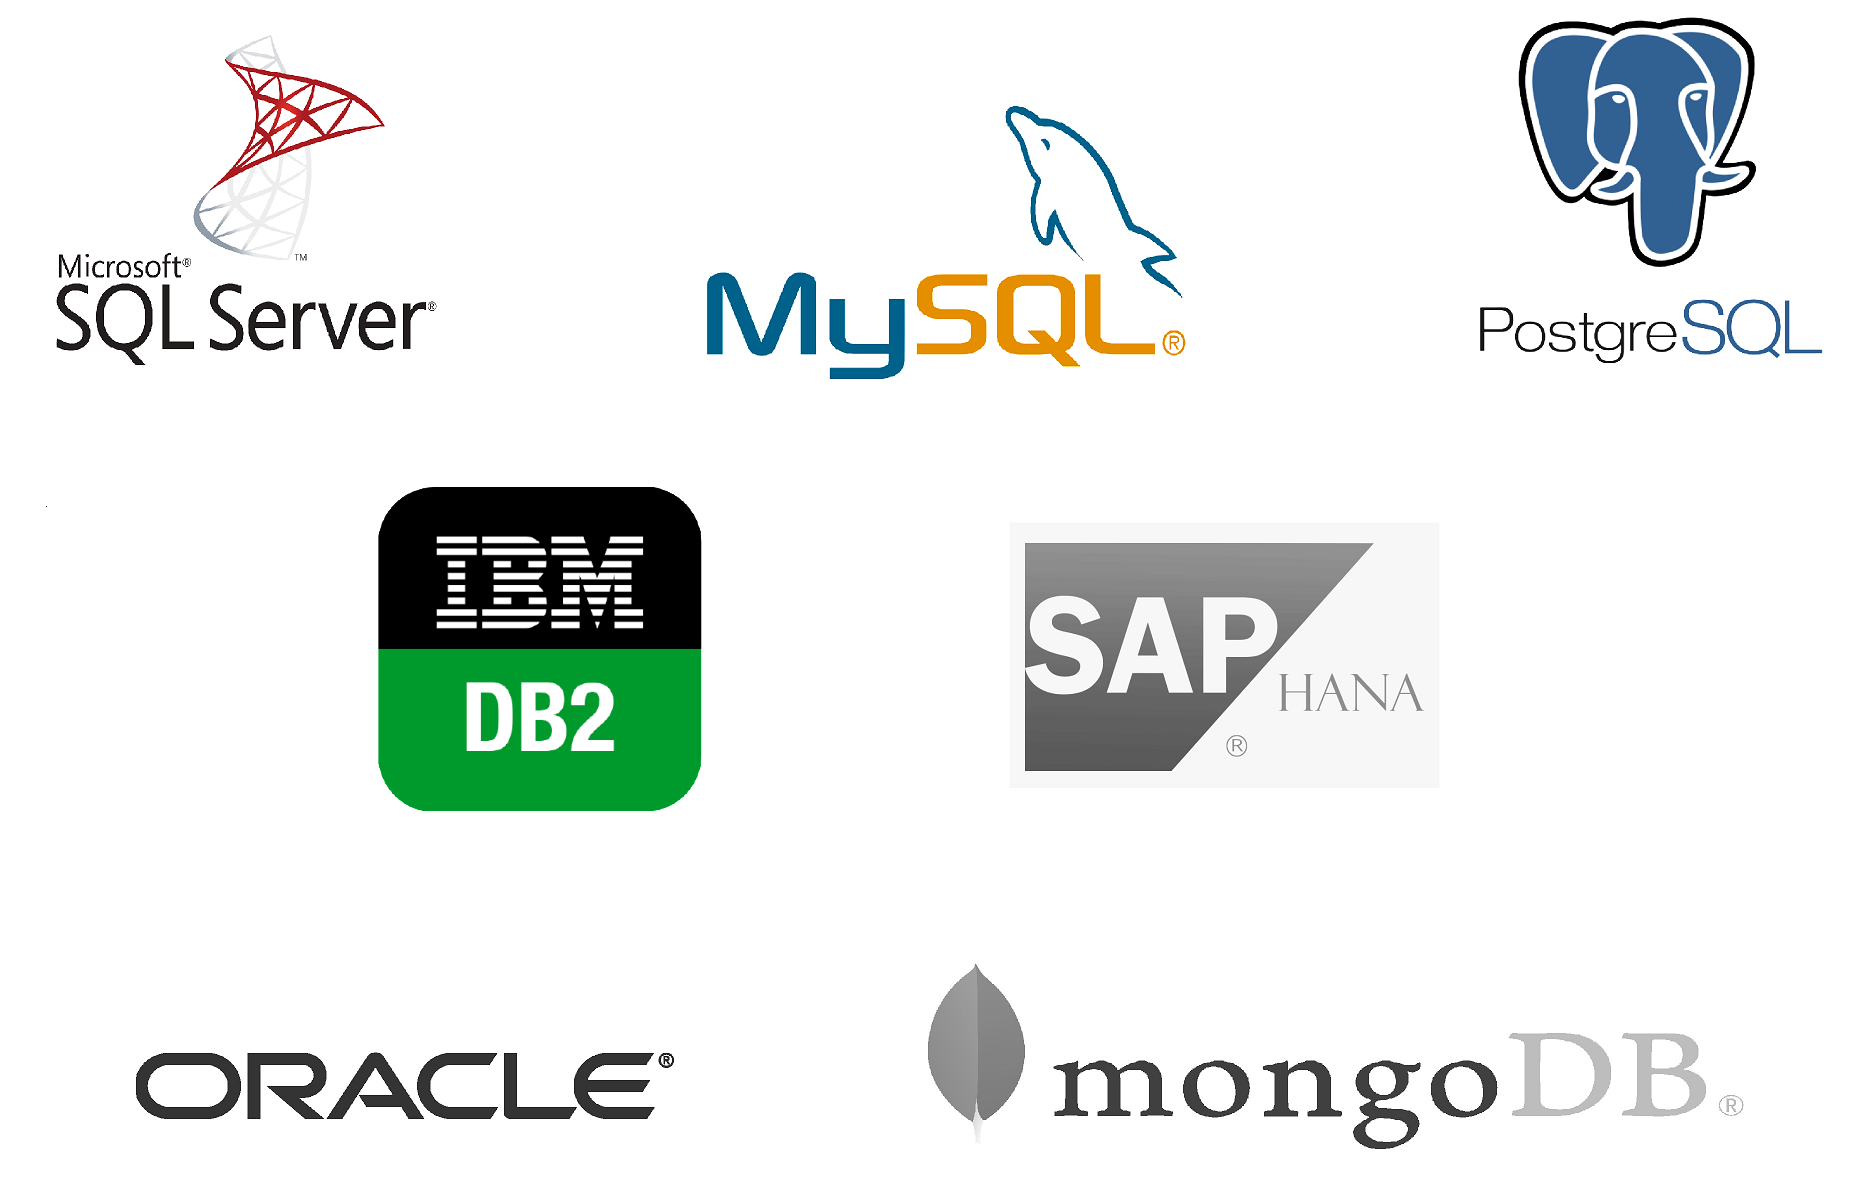
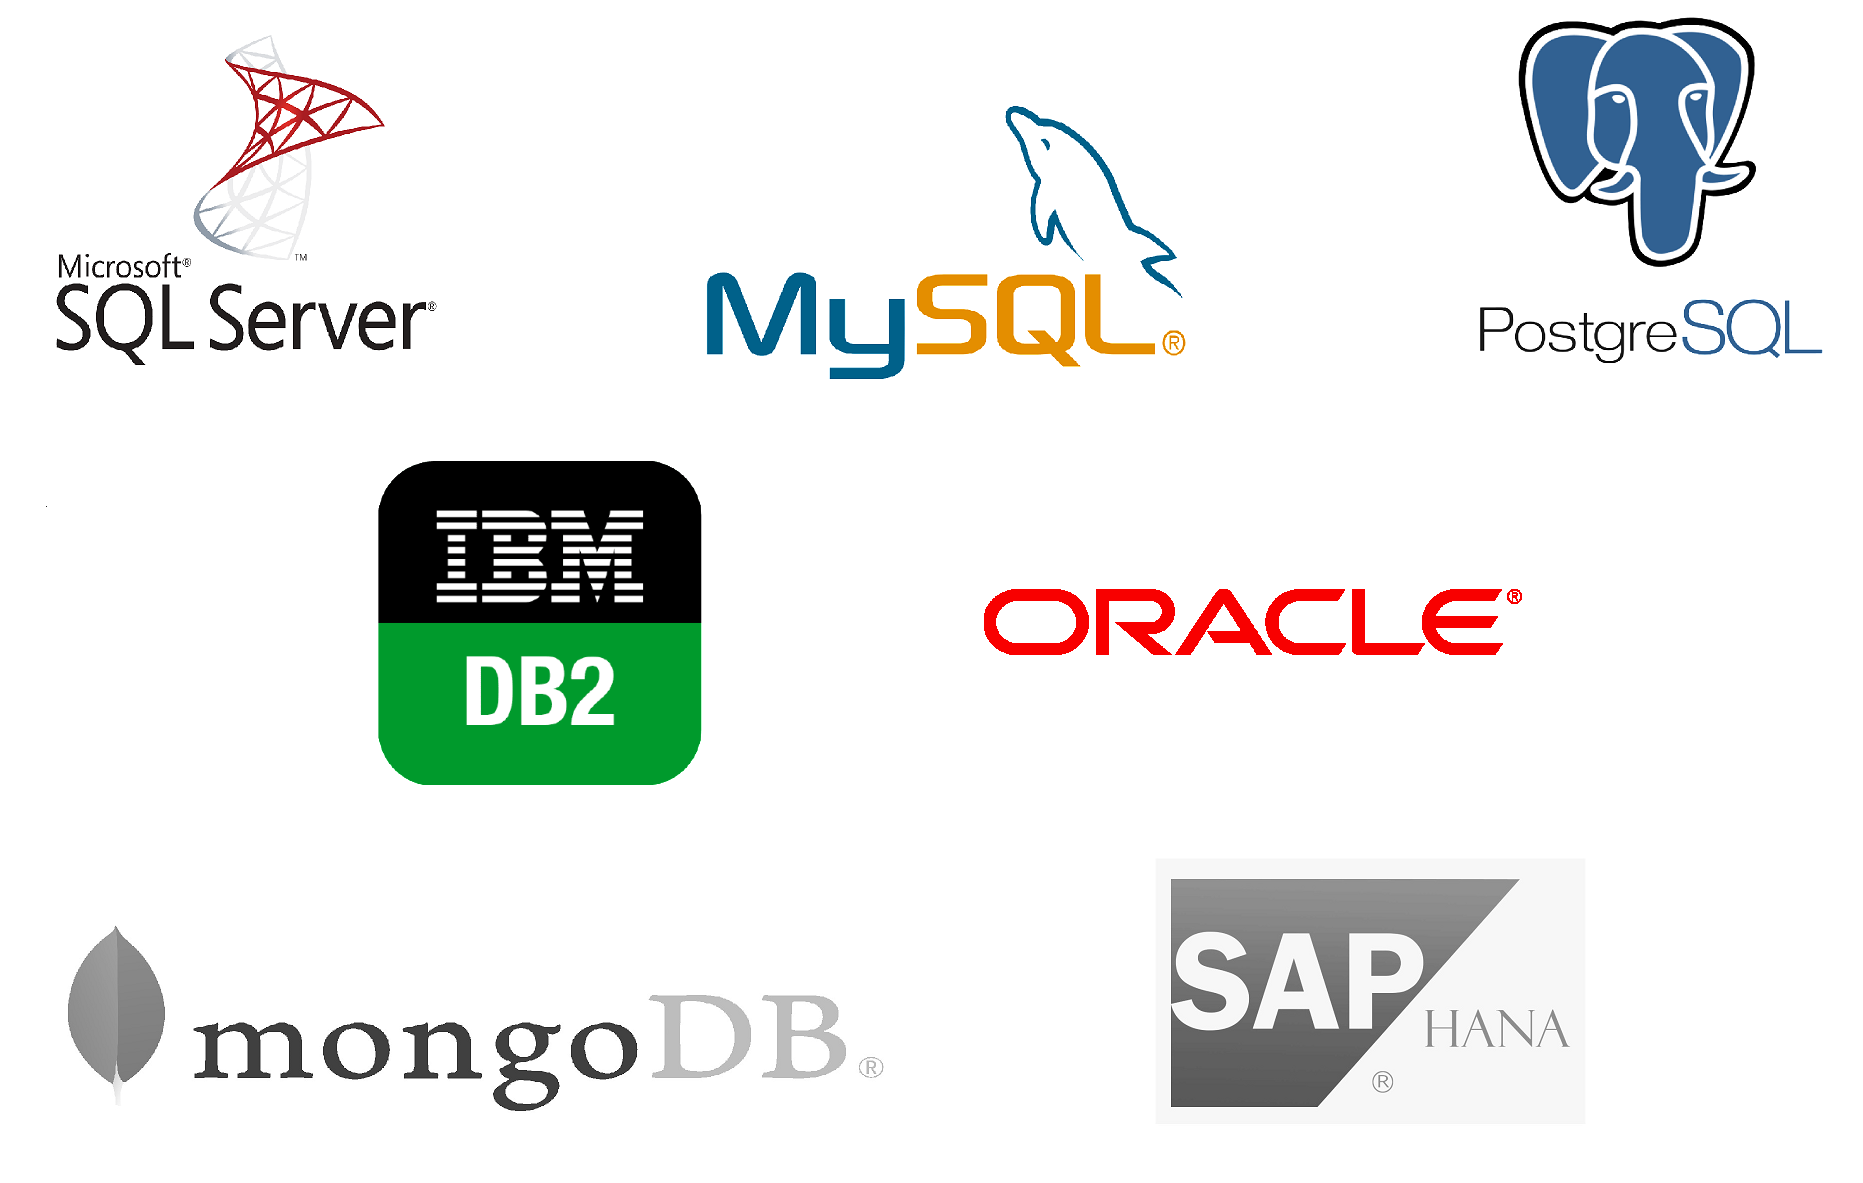
Oracle Support

diff --git a/sql-canvas-web/sidebars.js b/sql-canvas-web/sidebars.js
@@ -10,6 +10,6 @@ module.exports = {
     Docs: ['dbms', 'installation'],
     Tutorials: ['tutorials/canvas','tutorials/connection','tutorials/customization', 'tutorials/export','tutorials/history','tutorials/file','tutorials/schema','tutorials/save','tutorials/select', 'tutorials/update'],
     APIs: ['api/connection', 'api/data', 'api/schema', 'api/sql'],
-    "Knowledge Base": ['knowledge/db2', 'knowledge/mysql', 'knowledge/mssql', 'knowledge/postgre'],
+    "Knowledge Base": ['knowledge/db2', 'knowledge/mysql', 'knowledge/mssql', 'knowledge/oracle', 'knowledge/postgre'],
   },
 };

diff --git a/sql-canvas-web/src/pages/index.js b/sql-canvas-web/src/pages/index.js
@@ -54,7 +54,7 @@ const features = [
     imageUrl: 'img/landing/dbms.png',
     description: (
       <>
-        We support the most common used DBMS including IBM Db2, MySQL, Microsoft SQL and Postgresql with an ever-increasing pipeline of development to cover Oracle, SAP HANA and MongoDb, etc.
+        We support the most 5 commonly used DBMS including IBM Db2, MySQL, Microsoft SQL Server, Oracle and Postgresql with an ever-increasing pipeline of development to cover MongoDb, SAP HANA, Teradata, etc.
       </>
     )
   },

diff --git a/sql-canvas-web/docs/knowledge/oracle.md b/sql-canvas-web/docs/knowledge/oracle.md
@@ -1,0 +1,78 @@
+---
+id: oracle
+title: Oracle Database
+---
+
+### Constants
+```js
+const IGNORE_SCHEMAS = `('APPQOSSYS','CTXSYS','DBSNMP','DIP','OUTLN','RDSADMIN','SYS','SYSTEM')`;
+```
+
+### Retrieve User's Permissions
+```js
+select * from user_sys_privs where username = UPPER(:username)
+```
+
+### Retrieve Schema List
+```js
+ select username as schema_name
+   from sys.all_users where username not in ${IGNORE_SCHEMAS}
+  order by username
+```
+
+### Retrieve Columns BY Schema
+```js
+ select col.owner as schema_name,
+        col.table_name, 
+        col.column_name, 
+        col.column_id, 
+        col.data_type, 
+        col.nullable is_nullable, 
+        col.data_default column_default, 
+        case when col.data_type in('VARCHAR', 'VARCHAR2') then col.data_length else NULL end as max_length,
+        col.data_precision precision,
+        case when d.name is not null then 1 else 0 end as auto_increment
+   from sys.all_tab_columns col
+  inner join sys.all_tables t on col.owner = t.owner and col.table_name = t.table_name
+   left join sys.all_trigger_cols tr on tr.table_owner = col.owner and tr.table_name = col.table_name and tr.column_name = col.column_name
+   left join sys.all_dependencies d on d.name = tr.trigger_name and d.referenced_type = 'SEQUENCE' and d.type = 'TRIGGER'
+  where t.owner = :schema                       
+  order by col.owner, col.table_name, col.column_id
+```
+
+### Retrieve Primary Keys BY Schema
+```js
+ select all_constraints.constraint_name,
+        all_cons_columns.table_name, 
+        LISTAGG(all_cons_columns.column_name, ', ') WITHIN GROUP (ORDER BY all_cons_columns.position) columns
+   from all_constraints, all_cons_columns 
+  where all_constraints.constraint_type = 'P'
+    and all_constraints.constraint_name = all_cons_columns.constraint_name
+    and all_constraints.owner = all_cons_columns.owner
+    and all_cons_columns.owner = :schema
+  group by all_constraints.constraint_name, all_cons_columns.table_name
+  order by all_cons_columns.table_name
+```
+
+### Retrieve Foreign Keys BY Schema
+```js
+select a_col.constraint_name constraint_name,
+        a_col.table_name foreign_table,       
+        c_col.table_name primary_table,
+        LISTAGG(a_col.column_name, ', ') WITHIN GROUP (ORDER BY a_col.position) fk_columns,
+        LISTAGG(c_col.column_name, ', ') WITHIN GROUP (ORDER BY c_col.position) pk_columns
+   from all_cons_columns a_col
+   join all_constraints c ON a_col.owner = c.owner AND a_col.constraint_name = c.constraint_name
+   join all_cons_columns c_col ON c_col.owner = c.owner AND c_col.constraint_name = c.r_constraint_name and a_col.position = c_col.position
+  where c.constraint_type = 'R' and c.owner = :schema
+  group by a_col.constraint_name, c_col.constraint_name, a_col.table_name, c_col.table_name
+```
+
+### Sample Error Object
+```js
+{ 
+  [Error: ORA-00942: table or view does not exist],
+  errorNum: 942, 
+  offset: 18
+}
+```

diff --git a/sql-canvas-web/docs/dbms.md b/sql-canvas-web/docs/dbms.md
@@ -31,7 +31,7 @@ PostgreSQL, also known as Postgres, is a free and open-source relational databas
 
 * Plugin Version: 7.18.2
 
-## IBM DB2 <img height="25" alt="Postgre Logo" src="/img/icons/db2.png"/>
+## IBM DB2 <img height="25" alt="Db2 Logo" src="/img/icons/db2.png"/>
 
 Db2 is a family of data management products, including database servers, developed by IBM. They initially supported the relational model, but were extended to support object-relational features and non-relational structures like JSON and XML. The brand name was originally styled as DB/2[2], then DB2[3][4][5] until 2017[6] and finally changed to its present form.  [Wikipedia](https://en.wikipedia.org/wiki/IBM_Db2_Family)
 
@@ -39,11 +39,27 @@ Db2 is a family of data management products, including database servers, develop
 
 * Plugin Version: 2.6.4
 
-## Oracle 
+## Oracle <img height="25" alt="Oracle Logo" src="/img/icons/oracle.png"/>
 
-Coming Soon.
+It is a database commonly used for running online transaction processing (OLTP), data warehousing (DW) and mixed (OLTP & DW) database workloads. The latest generation, Oracle Database 19c, is available on-prem, on-cloud, or in a hybrid-Cloud environment. 19c may also be deployed on Oracle Engineered Systems (e.g. Exadata) on-prem, on Oracle (public) cloud or (private) cloud at customer. [Wikipedia](https://en.wikipedia.org/wiki/Oracle_Database)
 
 * Plugin: [node-oracledb](https://www.npmjs.com/package/oracledb)
+
+* Pre-requirements:
+
+> Node-oracledb installation instructions: https://oracle.github.io/node-oracledb/INSTALL.html
+You must have 64-bit Oracle client libraries in your PATH environment variable.
+If you do not have Oracle Database on this computer, then install the Instant Client Basic or Basic Light package from     
+http://www.oracle.com/technetwork/topics/winx64soft-089540.html
+A Microsoft Visual Studio Redistributable suitable for your Oracle client library version must be available.
+
+> Oracle 19, 18, 12.2, 12.1 or 11.2 client libraries on the machine Node.js is installed on.
+
+> Run node -p "process.arch" and make sure to use 64-bit or 32-bit Oracle client libraries to match the Node.js architecture.
+
+> Oracle client libraries are included in Oracle Instant Client RPMs or ZIPs, a full Oracle Client, or a database on the same machine. You only need one of these installations.
+
+> Oracle’s standard client-server network interoperability allows connections between different versions of Oracle Client and Oracle Database. For certified configurations see Oracle Support’s Doc ID 207303.1. In summary, Oracle Client 19, 18 and 12.2 can connect to Oracle Database 11.2 or greater. Oracle Client 12.1 can connect to Oracle Database 10.2 or greater. Oracle Client 11.2 can connect to Oracle Database 9.2 or greater. The technical restrictions on creating connections may be more flexible. For example Oracle Client 12.2 can successfully connect to Oracle Database 10.2.
 
 ## MongoDB
 

diff --git a/sql-canvas-web/docs/knowledge/db2.md b/sql-canvas-web/docs/knowledge/db2.md
@@ -1,6 +1,6 @@
 ---
 id: db2
-title: IBM Db2
+title: IBM DB2
 ---
 
 ### Constants
@@ -35,16 +35,12 @@ select authid as username
         c.colno as column_id,
         c.typename as data_type,
         case when c.typename = 'VARCHAR' then c.length else NULL end as max_length,
-        c.scale,
-        c.remarks as description,   
         case when c.nulls = 'Y' then 1 else 0 end as is_nullable,
         default as column_default,
-        case when c.identity ='Y' then 1 else 0 end as is_identity,
-        case when c.generated ='' then 0 else 1 end as is_auto_increment,
-        c.text as computed_formula
+        case when c.identity = 'Y' then 1 else 0 end as auto_increment
    from syscat.columns c
   inner join syscat.tables t on t.tabschema = c.tabschema and t.tabname = c.tabname
-  where t.type = 'T' and c.tabschema = UPPER(?)
+  where t.type = 'T' and c.tabschema = ?
   order by schema_name, table_name, column_id
 ```
 
@@ -60,7 +56,7 @@ select authid as username
    from syscat.tables tab
   inner join syscat.tabconst const on const.tabschema = tab.tabschema and const.tabname = tab.tabname and const.type = 'P'
   inner join syscat.keycoluse key on const.tabschema = key.tabschema and const.tabname = key.tabname and const.constname = key.constname     
-  where tab.type = 'T' and tab.tabschema = UPPER(?)
+  where tab.type = 'T' and tab.tabschema = ?
   order by const.constname
 ```
 
@@ -78,7 +74,7 @@ select authid as username
           where keypk.tabschema = ref.reftabschema and keypk.tabname = ref.reftabname and keypk.constname = ref.refkeyname
         ) AS pk_columns
    from syscat.references ref
-  where ref.tabschema = UPPER(?)
+  where ref.tabschema = ?
 ```
 
 ### Sample Error Object
